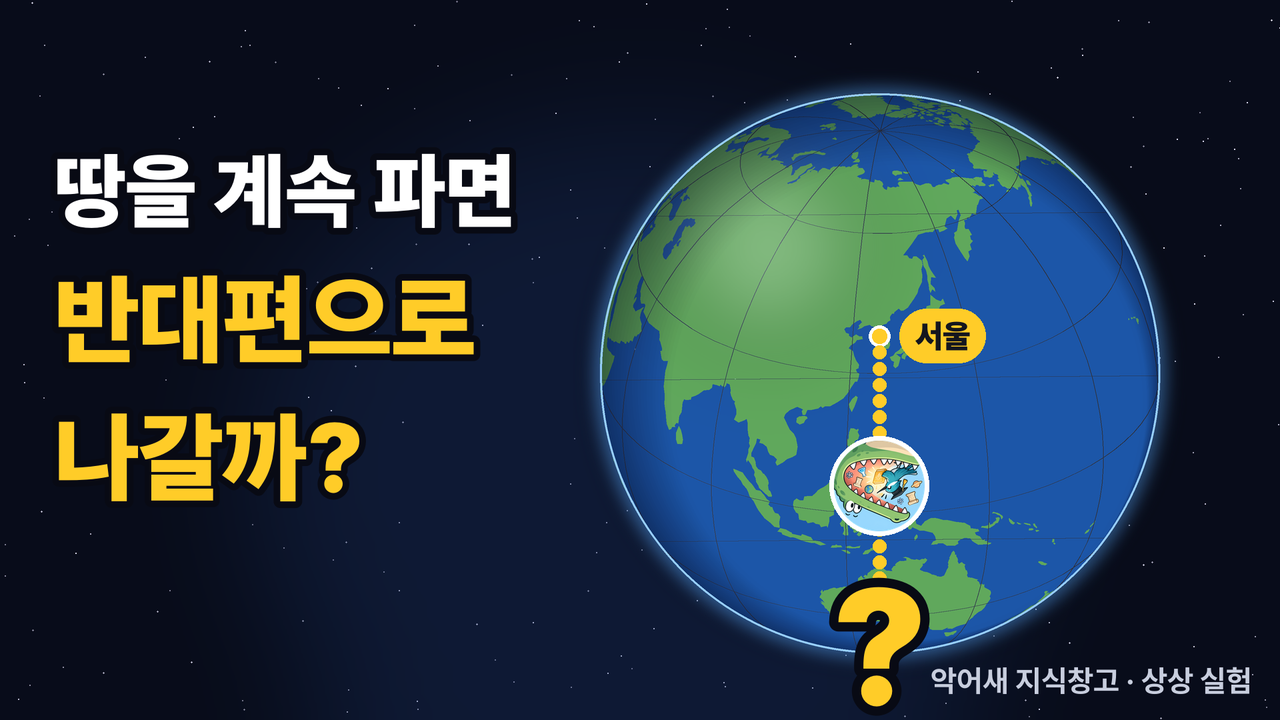
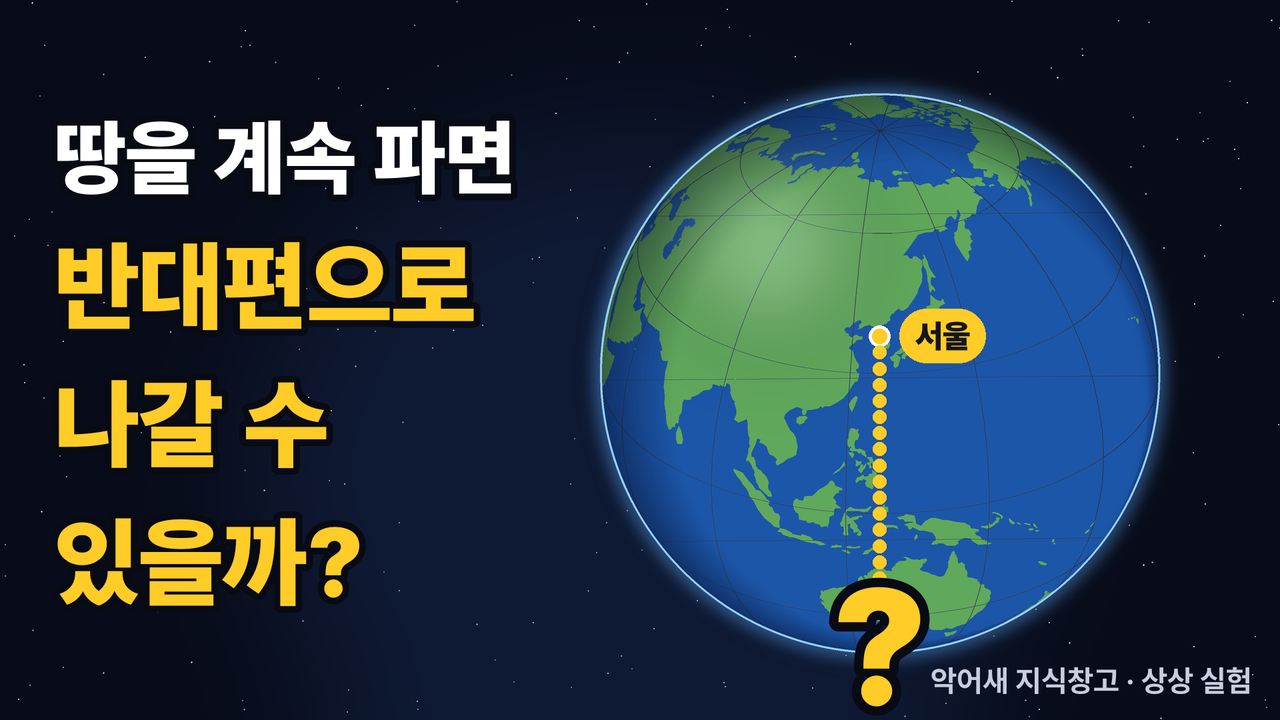
sci05 썸네일 T03 확정(악어새 빼고 '나갈 수 있을까?')
Claude-Session: https://claude.ai/code/session_01XzgYRsYwxnJKVwoBmLGtiR

Changed region(s): [[0.0312, 0.1528, 0.4062, 0.8556], [0.625, 0.6111, 0.75, 0.7639]]

diff --git a/youtube/tools/thumb_earth.py b/youtube/tools/thumb_earth.py
@@ -98,10 +98,8 @@ def make(v):
             q = k / 18
             px, py = sx, sy + (cy + r - 40 - sy) * q
             d.ellipse((px - 10, py - 10, px + 10, py + 10), fill=GOLD + (240,))
-        m = mascot(150, 180)
-        f.alpha_composite(m, (int(sx - m.width / 2), int(sy + 150)))
         qmark(f, sx, cy + r - 10, 220)
-        lines(f, [("땅을 계속 파면", 110, WHITE), ("반대편으로", 130, GOLD), ("나갈까?", 130, GOLD)], 70, 200)
+        lines(f, [("땅을 계속 파면", 110, WHITE), ("반대편으로", 130, GOLD), ("나갈 수", 130, GOLD), ("있을까?", 130, GOLD)], 70, 150)
     elif v == "T04":   # 총알 10배
         section(f, 1480, 560, 400, 560, 180, 170)
         b = _vehicle("bullet", 360)
